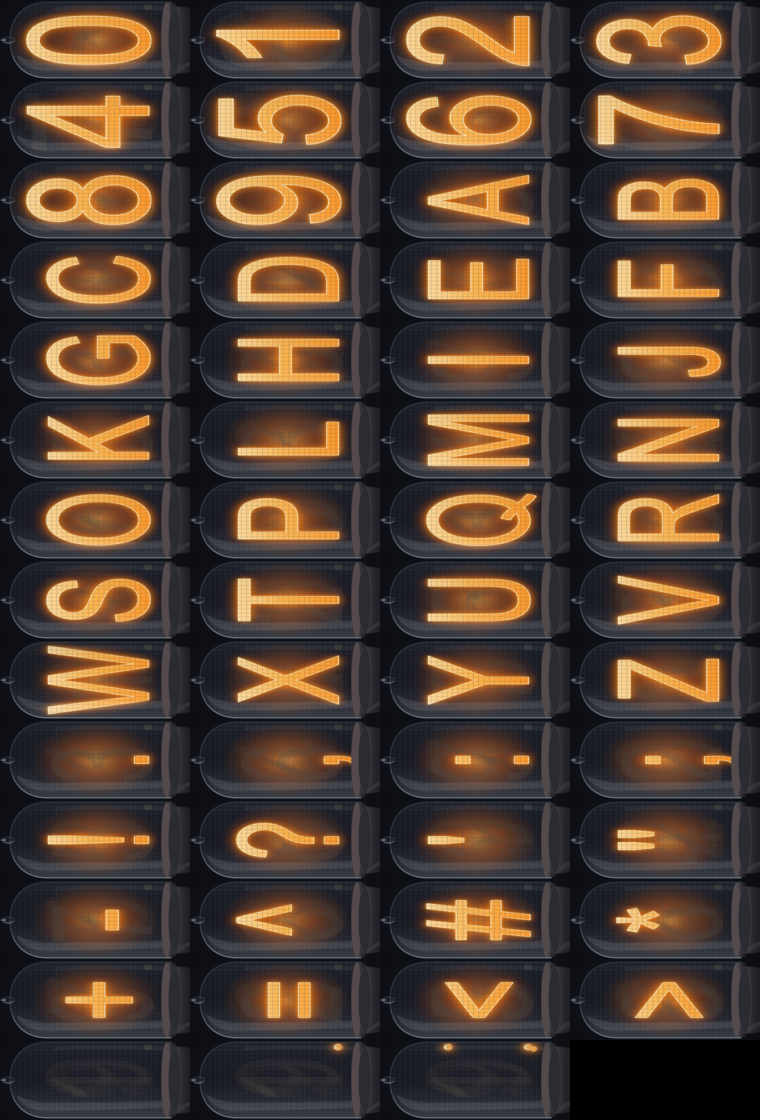
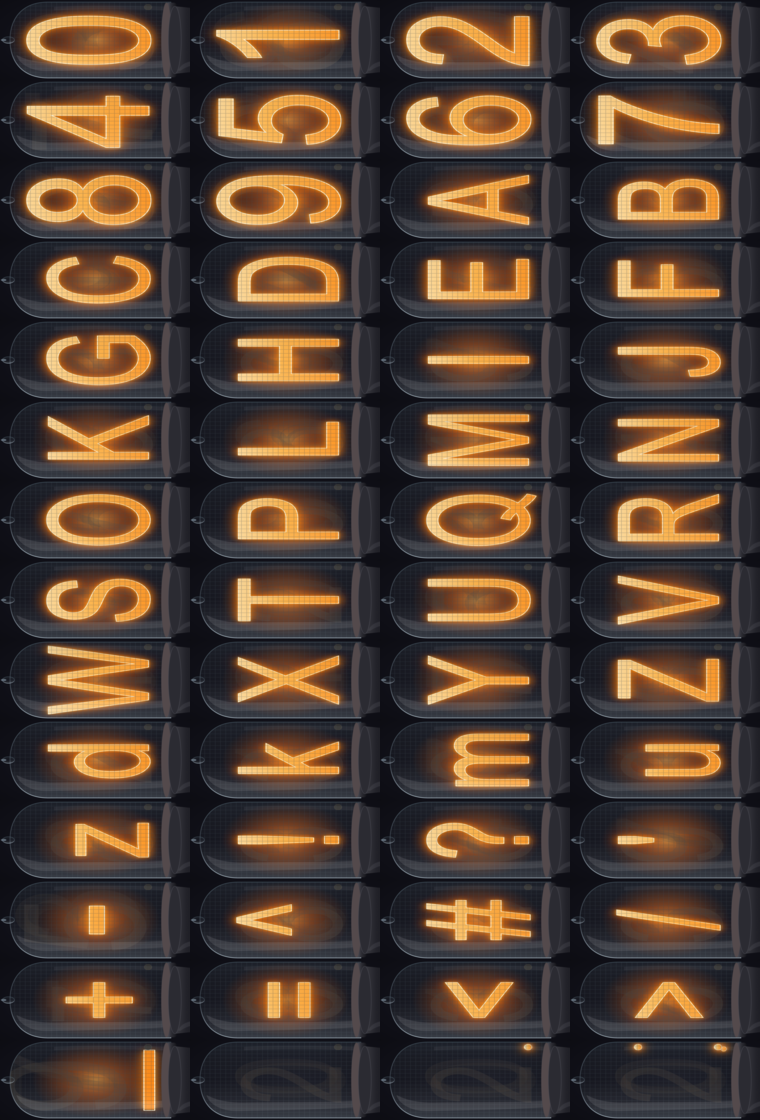
display working

diff --git a/src/display.c b/src/display.c
@@ -69,7 +69,8 @@ struct display_cell_state {
 };
 
 static uint8_t display_tile_map[256];
-static struct display_cell_state display_state[DISPLAY_COLS];
+static struct display_cell_state display_state[2][DISPLAY_COLS];
+static uint16_t indicator_state[2];
 
 
 static int png_decode_cb(PNGDRAW *d)
@@ -179,7 +180,7 @@ vmem_image_t* load_image_to_vmem(const char *buf, uint32_t len, uint16_t mono_co
 
 static void init_theme()
 {
-	int i;
+	int i, j;
 
 	/* Build lookup table for display character graphics tiles */
 	for(i = 0; i < 256; i++) {
@@ -187,19 +188,23 @@ static void init_theme()
 	}
 
 	i = 0;
-	while (display_chars[i] != 0) {
+	while (display_chars[i] >= 0) {
 		int c = display_chars[i];
 		if (c >= 0) {
 			display_tile_map[c] = i;
-			display_tile_map[tolower(c)] = i;
+			if (display_tile_map[tolower(c)] == DISPLAY_CHAR_BLANK_IDX)
+				display_tile_map[tolower(c)] = i;
 		}
 		i++;
 	}
 
-	for(i = 0; i < DISPLAY_COLS; i++) {
-		struct display_cell_state *cell = &display_state[i];
-		cell->c = 0;
-		cell->flags = 0;
+	for(j = 0; j < 2; j++) {
+		for(i = 0; i < DISPLAY_COLS; i++) {
+			struct display_cell_state *cell = &display_state[j][i];
+			cell->c = 0;
+			cell->flags = 0;
+		}
+		indicator_state[j] = 0;
 	}
 }
 
@@ -286,14 +291,14 @@ static void update_display(struct display_cell_state newstate[], uint32_t ind_fl
 	absolute_time_t t_start = get_absolute_time();
 
 	for (int i = 0; i < DISPLAY_COLS; i++) {
-		if (force_refresh || newstate[i].c != display_state[i].c
-			|| newstate[i].flags != display_state[i].flags) {
+		if (force_refresh || newstate[i].c != display_state[state][i].c
+			|| newstate[i].flags != display_state[state][i].flags) {
 
 			/* Draw character */
-			display_state[i] = newstate[i];
+			display_state[state][i] = newstate[i];
 			uint16_t y = DISPLAY_Y_OFFSET + (DISPLAY_COLS - 1 - i) * DISPLAY_CHAR_H;
 			uint16_t x = DISPLAY_X_OFFSET;
-			uint8_t tile = display_tile_map[(uint8_t)display_state[i].c];
+			uint8_t tile = display_tile_map[(uint8_t)display_state[state][i].c];
 			uint16_t tile_x = (tile % DISPLAY_CHAR_MAP_W) * DISPLAY_CHAR_W;
 			uint16_t tile_y = (tile / DISPLAY_CHAR_MAP_W) * DISPLAY_CHAR_H;
 
@@ -304,7 +309,7 @@ static void update_display(struct display_cell_state newstate[], uint32_t ind_fl
 
 			/* Draw character overlays */
 			for (int o = 0; o < DISPLAY_CHAR_OVERLAY_COUNT; o++) {
-				if (display_state[i].flags & (1 << o)) {
+				if (display_state[state][i].flags & (1 << o)) {
 					const struct lcd_char_overlay *ov = &display_char_overlays[o];
 					uint16_t ovtile_x = (ov->tile % DISPLAY_CHAR_MAP_W) * DISPLAY_CHAR_W;
 					uint16_t ovtile_y = (ov->tile / DISPLAY_CHAR_MAP_W) * DISPLAY_CHAR_H;
@@ -324,11 +329,18 @@ static void update_display(struct display_cell_state newstate[], uint32_t ind_fl
 		uint8_t tile = display_indicators[INDICATOR_BLANK].tile;
 		const struct lcd_indicator *d = &display_indicators[ind];
 
+
 		if (ind == INDICATOR_BLANK)
+			continue;
+
+		if ((ind_flags & (1 << i)) == (indicator_state[state] & (1 << i)) && d->mode == 0)
 			continue;
 
 		if (ind_flags & (1 << i)) {
 			tile = d->tile;
+		} else {
+			if (d->mode == 2)
+				continue;
 		}
 
 		uint16_t y = d->y;
@@ -341,6 +353,7 @@ static void update_display(struct display_cell_state newstate[], uint32_t ind_fl
 				disp2->base_addr, disp2->w, tile_x, tile_y,
 				DISPLAY_IND_W, h, 0x0a);
 	}
+	indicator_state[state] = ind_flags;
 
 	lt7680_set_misa_addr(fb);
 	if (state == 0)
@@ -367,7 +380,7 @@ void display_status(const struct fanpico_state *state,
 	//uint16_t w = LCD_WIDTH;
 	//uint16_t h = LCD_HEIGHT;
 	struct display_cell_state disp[DISPLAY_COLS];
-	uint32_t ind = 0x0000ffff;
+	//uint32_t ind = 0x0000ffff;
 
 	if (!display_active)
 		return;
@@ -396,7 +409,7 @@ void display_status(const struct fanpico_state *state,
 			break;
 	}
 	//printf("\n");
-	update_display(disp, dmm_ann_state, true);
+	update_display(disp, dmm_ann_state, false);
 	pos++;
 #if 0
 	lt7680_bte_memory_copy(0, w, 50, 0,

diff --git a/src/img/240x960/nixie-theme.h b/src/img/240x960/nixie-theme.h
@@ -69,25 +69,27 @@ struct lcd_indicator {
 	int16_t tile;
 	int16_t h;
 	int16_t y;
+	int8_t mode;
+	uint16_t mask;
 };
 
 const struct lcd_indicator display_indicators[] = {
-	{  0, -1, 788 },
-	{  1, -1, 708 },
-	{  2, -1, 628 },
-	{  3, -1, 548 },
-	{  4, -1, 548 },
-	{  5, -1, 468 },
-	{  6, -1, 388 },
-	{  7, -1, 308 },
-	{  8, -1,  68 },
-	{  9, -1, 228 },
-	{ 10, -1, 148 },
-	{ 11, 64,   0 },
-	{ 12, 64,   0 },
-	{ 13, 64,   0 },
-	{ 14, 64, 896 },
-	{ 15, -1,  -1 },
+	{  0, -1, 788, 0, 0x0001 },
+	{  1, -1, 708, 0, 0x0002 },
+	{  2, -1, 628, 0, 0x0004 },
+	{  3, -1, 548, 1, 0x0018 },
+	{  4, -1, 548, 2, 0x0018 },
+	{  5, -1, 468, 0, 0x0020 },
+	{  6, -1, 388, 0, 0x0040 },
+	{  7, -1, 308, 0, 0x0080 },
+	{  8, -1,  68, 0, 0x0100 },
+	{  9, -1, 228, 0, 0x0200 },
+	{ 10, -1, 148, 0, 0x0400 },
+	{ 11, 64,   0, 1, 0x3800 },
+	{ 12, 64,   0, 2, 0x3800 },
+	{ 13, 64,   0, 2, 0x3800 },
+	{ 14, 64, 896, 0, 0x4000 },
+	{ 15, -1,  -1, 0, 0x0000 },
 };
 
 enum lcd_char_overlays {
@@ -105,9 +107,9 @@ struct lcd_char_overlay {
 };
 
 const struct lcd_char_overlay display_char_overlays[] = {
-	{  53, 140,   4,  20,   8 }, // OVERLAY_PERIOD
-	{  54, 140,   4,  24,  12 }, // OVERLAY_COMMA
-	{  54,  60,   4,  20,   8 }, // OVERLAY_DOT
+	{  54, 140,   4,  20,   8 }, // OVERLAY_PERIOD
+	{  55, 140,   4,  24,  12 }, // OVERLAY_COMMA
+	{  55,  60,   4,  20,   8 }, // OVERLAY_DOT
 };
 
 const int display_chars[] = {
@@ -120,12 +122,12 @@ const int display_chars[] = {
 	'O', 'P', 'Q', 'R',
 	'S', 'T', 'U', 'V',
 	'W', 'X', 'Y', 'Z',
-	'.', ',', ':', ';',
-	'!', '?', '\'', '"',
-	'-', '^', '#', '*',
+	'd', 'k', 'm', 'n',
+	'z', '!', '?', '\'',
+	'-', '^', '#', '/',
 	'+', '=', '<', '>',
-	' ',
-	0 };
+	'_', ' ',
+	-1 };
 
 
 

diff --git a/themes/nixie/gen_nixie_alnum.py b/themes/nixie/gen_nixie_alnum.py
@@ -10,6 +10,8 @@ from pathlib import Path
 CH_FS = 250
 CH_TF = "matrix(1,0,0,1.4,0,-15)"   # text y=200 -> visual center y=265
 CH_TF_NUM = "matrix(1.4,0,0,1.7,-80,-100)"   # text y=200 -> visual center y=265
+CH_TF_HYP = "matrix(1.4,0,0,1.7,-80,-120)"
+CH_TF_U = "matrix(1.4,0,0,1.7,-80,-170)"
 
 TEMPLATE = r'''<svg viewBox="0 0 400 640" xmlns="http://www.w3.org/2000/svg" font-family="Arial, Helvetica, sans-serif">
   <defs>
@@ -153,12 +155,12 @@ PUNCT = [
     ("[", "lbracket"), ("]", "rbracket"), ("/", "slash"), ("\\", "backslash"),
     ("@", "at"), ("#", "hash"), ("$", "dollar"), ("%", "percent"),
     ("&", "ampersand"), ("*", "asterisk"), ("+", "plus"), ("=", "equals"),
-    ("<", "less"), (">", "greater"),
+    ("<", "less"), (">", "greater"), ("_", "underscore"),
 ]
 SPACE = [(" ", "space")]
 
 # Build ordered (char, name) list
-ORDER = [(d, d) for d in DIGITS] + [(l, l) for l in LETTERS] + PUNCT + SPACE
+ORDER = [(d, d) for d in DIGITS] + [(l, l) for l in LETTERS] + [(l.lower(),l.lower() + '_lc') for l in LETTERS] + PUNCT + SPACE
 N = len(ORDER)
 
 # Faint background pool (clean glyphs only)
@@ -213,7 +215,7 @@ def make_tube(i, dot="dark", dot2="dark"):
     halo = "0" if is_space else "1"   # no central glow for a blank (space) tube
     return (TEMPLATE
             .replace("__FS__", str(CH_FS))
-            .replace("__TF__", CH_TF_NUM if ch.isdigit() else CH_TF)
+            .replace("__TF__", CH_TF_NUM if (ch.isdigit()) else CH_TF_U if (ch == '_') else CH_TF_HYP if (ch == '-') else  CH_TF)
             .replace("__HALO__", halo)
             .replace("__DOT__", lit_dot if dot == "lit" else DARK_DOT)
             .replace("__A__", esc(a))

diff --git a/src/lcd-pico.c b/src/lcd-pico.c
@@ -496,12 +496,14 @@ static void core1_main()
 
 		decoder34401_process();
 
-		if (time_passed(&t_dmm, 1000)) {
-			if (dmm_new_data_counter != dmm_last) {
-				dmm_last = dmm_new_data_counter;
-				log_msg(LOG_INFO, "DMM: c=%06d, ann=%04x, blink=%04x, dmm='%s'", dmm_last, dmm_ann_state, dmm_blink_mask, dmm_main);
-			}
+		if (dmm_new_data_counter != dmm_last) {
+			dmm_last = dmm_new_data_counter;
+			display_status(state, config);
 		}
+		if (time_passed(&t_dmm, 30000)) {
+			log_msg(LOG_INFO, "DMM: c=%06d, ann=%04x, blink=%04x, dmm='%s'", dmm_last, dmm_ann_state, dmm_blink_mask, dmm_main);
+		}
+
 	}
 }
 
@@ -605,10 +607,10 @@ int main()
 		}
 
 		/* Update display every 1000ms */
-		if (time_passed(&t_display, 100)) {
+		if (time_passed(&t_display, 1000)) {
 			log_msg(LOG_DEBUG, "update display start");
 			update_system_state();
-			display_status(fanpico_state, cfg);
+			//display_status(fanpico_state, cfg);
 			log_msg(LOG_DEBUG, "update display end");
 		}
 

diff --git a/themes/nixie/gen_nixie_png.py b/themes/nixie/gen_nixie_png.py
@@ -17,7 +17,7 @@ DIGITS = list("0123456789")
 LETTERS = list("ABCDEFGHIJKLMNOPQRSTUVWXYZ")
 
 
-LIST = DIGITS + LETTERS + [ "period", "comma", "colon", "semicolon", "exclam", "question", "apostrophe", "dquote", "hyphen", "tilde", "hash", "asterisk", "plus", "equals", "less", "greater", "space", "space_dot_on", "space_2dot_on"  ]
+LIST = DIGITS + LETTERS + [ "d_lc", "k_lc", "m_lc", "u_lc", "z_lc", "exclam", "question", "apostrophe", "hyphen", "tilde", "hash", "slash", "plus", "equals", "less", "greater", "underscore", "space", "space_dot_on", "space_2dot_on"  ]
 
 
 
